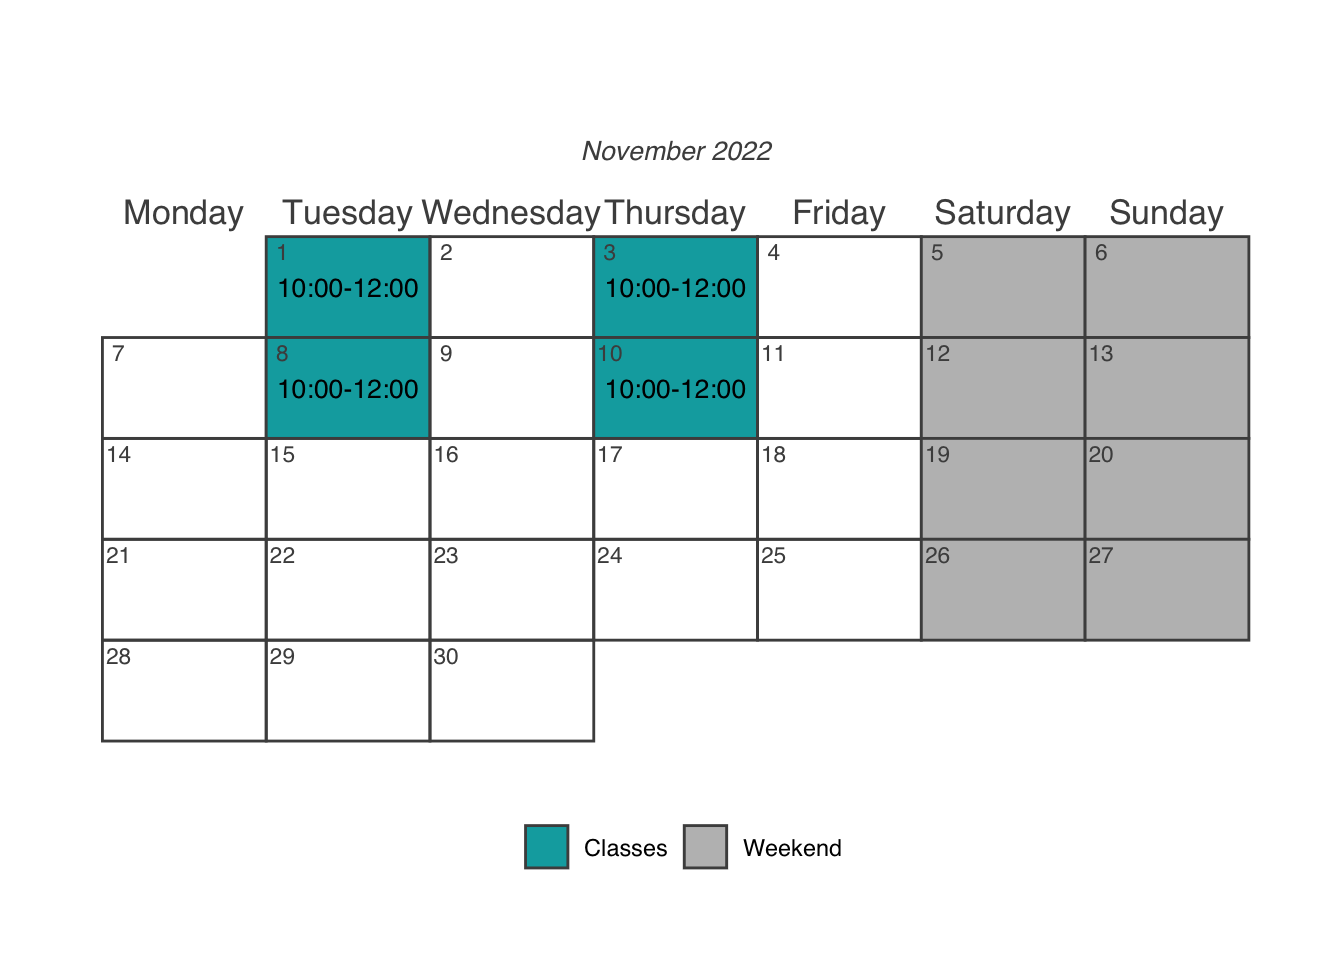
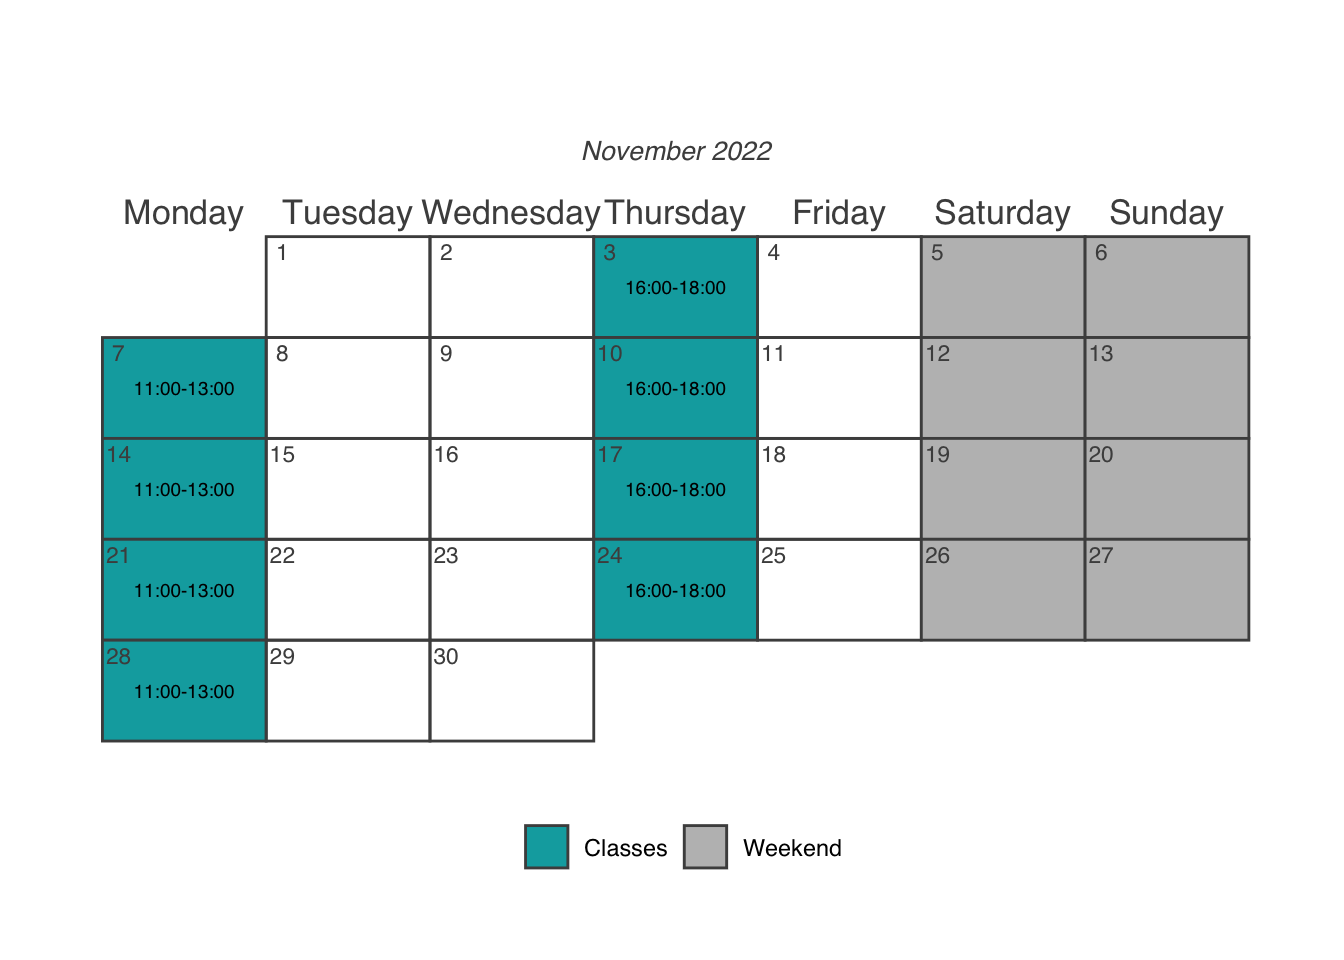
Schedule update!

Changed region(s): [[0.0625, 0.25, 0.3438, 0.7812], [0.4375, 0.375, 0.5625, 0.6875], [0.4375, 0.2812, 0.5625, 0.3125]]

diff --git a/docs/course_schedule.html b/docs/course_schedule.html
@@ -7,7 +7,7 @@
 <meta name="viewport" content="width=device-width, initial-scale=1.0, user-scalable=yes">
 
 <meta name="author" content="Giuliano Colosimo and Giulia Maiello">
-<meta name="dcterms.date" content="2022-08-30">
+<meta name="dcterms.date" content="2022-09-02">
 
 <title>ABEM_22-23 - Schedule</title>
 <style>
@@ -126,29 +126,7 @@ ul.task-list li input[type="checkbox"] {
       </ul>
   </li>
         <li class="sidebar-item sidebar-item-section">
-      <div class="sidebar-item-container"> 
-            <a class="sidebar-item-text sidebar-link text-start collapsed" data-bs-toggle="collapse" data-bs-target="#quarto-sidebar-section-2" aria-expanded="false">Classes</a>
-          <a class="sidebar-item-toggle text-start collapsed" data-bs-toggle="collapse" data-bs-target="#quarto-sidebar-section-2" aria-expanded="false">
-            <i class="bi bi-chevron-right ms-2"></i>
-          </a> 
-      </div>
-      <ul id="quarto-sidebar-section-2" class="collapse list-unstyled sidebar-section depth1 ">  
-          <li class="sidebar-item">
-  <div class="sidebar-item-container"> 
-  <a href="./classes/class1.html" class="sidebar-item-text sidebar-link">Class 1</a>
-  </div>
-</li>
-          <li class="sidebar-item">
-  <div class="sidebar-item-container"> 
-  <a href="./classes/class2.html" class="sidebar-item-text sidebar-link">Class 2</a>
-  </div>
-</li>
-          <li class="sidebar-item">
-  <div class="sidebar-item-container"> 
-  <a href="./classes/class3.html" class="sidebar-item-text sidebar-link">Class 3</a>
-  </div>
-</li>
-      </ul>
+      <span class="sidebar-item-text sidebar-link text-start">Classes</span>
   </li>
         <li class="sidebar-item">
   <div class="sidebar-item-container"> 
@@ -184,7 +162,7 @@ ul.task-list li input[type="checkbox"] {
     <div>
     <div class="quarto-title-meta-heading">Published</div>
     <div class="quarto-title-meta-contents">
-      <p class="date">August 30, 2022</p>
+      <p class="date">September 2, 2022</p>
     </div>
   </div>
     
@@ -427,7 +405,7 @@ window.document.addEventListener("DOMContentLoaded", function (event) {
 <footer class="footer">
   <div class="nav-footer">
     <div class="nav-footer-left">© Copyright 2022, Giuliano Colosimo and Giulia Maiello</div>   
-    <div class="nav-footer-right">This page is built with ❤ and <a href="https://quarto.org/">Quarto</a>.</div>
+    <div class="nav-footer-right">This page is built with ❤ and <a href="https://quarto.org/">Quarto</a>. The format is inspired by this <a href="https://sta210-s22.github.io/website/">course page</a></div>
   </div>
 </footer>
 

diff --git a/docs/contacts.html b/docs/contacts.html
@@ -127,29 +127,7 @@ ul.task-list li input[type="checkbox"] {
       </ul>
   </li>
         <li class="sidebar-item sidebar-item-section">
-      <div class="sidebar-item-container"> 
-            <a class="sidebar-item-text sidebar-link text-start collapsed" data-bs-toggle="collapse" data-bs-target="#quarto-sidebar-section-2" aria-expanded="false">Classes</a>
-          <a class="sidebar-item-toggle text-start collapsed" data-bs-toggle="collapse" data-bs-target="#quarto-sidebar-section-2" aria-expanded="false">
-            <i class="bi bi-chevron-right ms-2"></i>
-          </a> 
-      </div>
-      <ul id="quarto-sidebar-section-2" class="collapse list-unstyled sidebar-section depth1 ">  
-          <li class="sidebar-item">
-  <div class="sidebar-item-container"> 
-  <a href="./classes/class1.html" class="sidebar-item-text sidebar-link">Class 1</a>
-  </div>
-</li>
-          <li class="sidebar-item">
-  <div class="sidebar-item-container"> 
-  <a href="./classes/class2.html" class="sidebar-item-text sidebar-link">Class 2</a>
-  </div>
-</li>
-          <li class="sidebar-item">
-  <div class="sidebar-item-container"> 
-  <a href="./classes/class3.html" class="sidebar-item-text sidebar-link">Class 3</a>
-  </div>
-</li>
-      </ul>
+      <span class="sidebar-item-text sidebar-link text-start">Classes</span>
   </li>
         <li class="sidebar-item">
   <div class="sidebar-item-container"> 
@@ -201,7 +179,7 @@ ul.task-list li input[type="checkbox"] {
 </ul>
 <p>You can reach Giulia at:</p>
 <ul>
-<li>gmaiello93@gmail.com</li>
+<li>giulia.maiello@uniroma2.it</li>
 </ul>
 
 

diff --git a/docs/course_syllabus.html b/docs/course_syllabus.html
@@ -194,6 +194,12 @@ ul.task-list li input[type="checkbox"] {
 <h2 class="anchored" data-anchor-id="general-information">General information</h2>
 <p>This is an discretionary course for master level students enrolled in the “Biologia Evoluzionistica, Ecologia e Antropologia Applicata” degree at the University of Rome Tor Vergata. It is worth <strong>3 CFU</strong> for a total of 24 hours to be administered in person (or remotely, depending on the evolution of the pandemic) during the first semester of academic year 2022/2023.</p>
 <table class="table">
+<colgroup>
+<col style="width: 14%">
+<col style="width: 15%">
+<col style="width: 52%">
+<col style="width: 17%">
+</colgroup>
 <thead>
 <tr class="header">
 <th></th>
@@ -205,9 +211,9 @@ ul.task-list li input[type="checkbox"] {
 <tbody>
 <tr class="odd">
 <td>Lectures</td>
-<td>Tue &amp; Thu</td>
-<td>10:00 pm - 12:00 pm</td>
-<td>Televisore</td>
+<td>Mon &amp; Thu</td>
+<td>11:00 - 13:00 &amp; 16:00 - 18:00</td>
+<td>Aula pesca</td>
 </tr>
 </tbody>
 </table>
